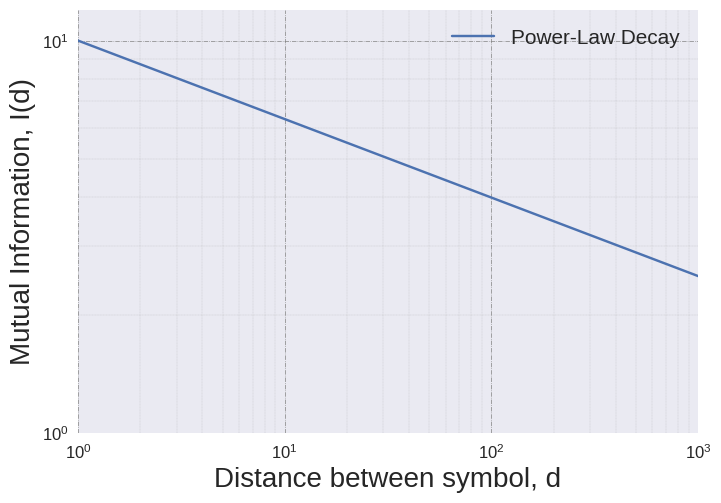
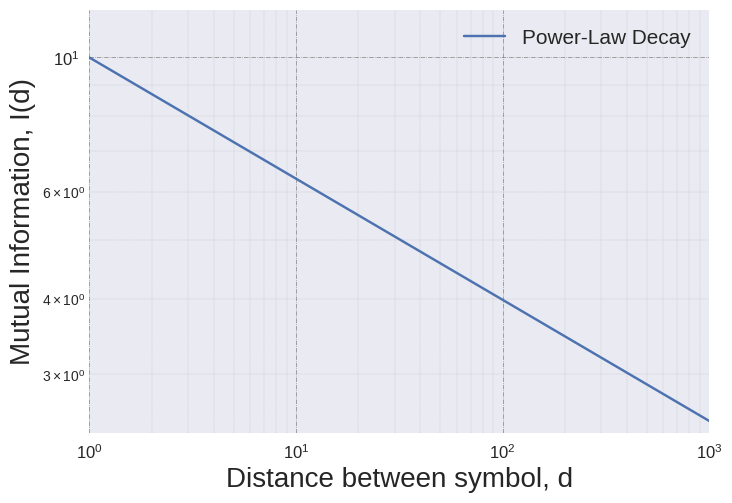
Up

diff --git a/paper_related/framework.py b/paper_related/framework.py
@@ -12,21 +12,21 @@ with plt.style.context(('seaborn')):
 
     ##########################################################################################################################
 
-    # break_point = 5
-    # alpha_1 = 0.2
-    # alpha_2 = 0.04
-    # amplitude = 7
-    # f = models.BrokenPowerLaw1D(amplitude=amplitude, x_break=break_point, alpha_1=alpha_1, alpha_2=alpha_2)
-    # fit_sample = f(x)
-    # p1 = plt.loglog(x, fit_sample, label="Broken Power-Law Decay")
+    break_point = 5
+    alpha_1 = 0.2
+    alpha_2 = 0.04
+    amplitude = 7
+    f = models.BrokenPowerLaw1D(amplitude=amplitude, x_break=break_point, alpha_1=alpha_1, alpha_2=alpha_2)
+    fit_sample = f(x)
+    p1 = plt.loglog(x, fit_sample, label="Broken Power-Law Decay")
 
     ##########################################################################################################################
 
-    a = 10
+    # a = 10
     # alpha = 0.2 # Deep
-    alpha = 0.04 # Shallow
-    y = a*pow(x,-alpha)
-    p2 = plt.loglog(x, y, label="Power-Law Decay")
+    # # alpha = 0.04 # Shallow
+    # y = a*pow(x,-alpha)
+    # p2 = plt.loglog(x, y, label="Power-Law Decay")
 
     ##########################################################################################################################
 
@@ -56,8 +56,8 @@ with plt.style.context(('seaborn')):
     plt.grid(which='major', linestyle='-.', linewidth='0.5', color='grey')
     plt.grid(which='minor', linestyle=':', linewidth='0.2', color='grey')
     ax.set_xlim(1.0, 1000.0)
-    ax.set_ylim(1, 12)
+    ax.set_ylim(2.4, 12)
     ax.set_xlabel('Distance between symbol, d', fontsize=20)
     ax.set_ylabel('Mutual Information, I(d)', fontsize=20)
-    plt.savefig('pl_shallow', bbox_extra_artists=(lgd,), bbox_inches='tight')
+    plt.savefig('pl_broken', bbox_extra_artists=(lgd,), bbox_inches='tight')
     plt.show()
